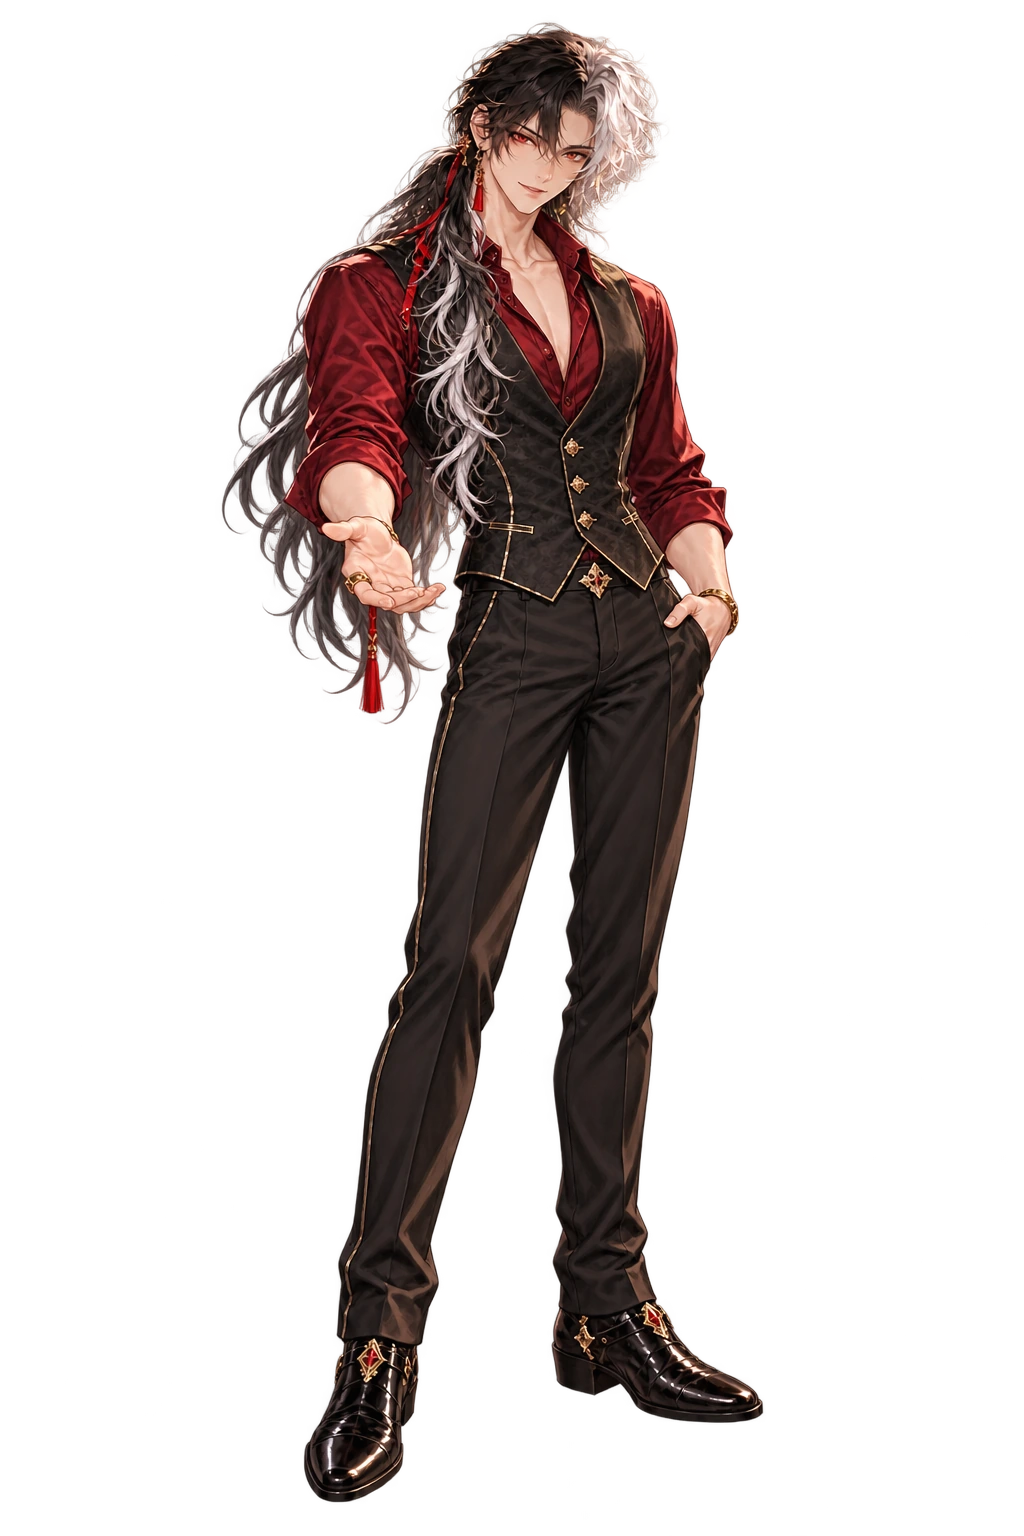
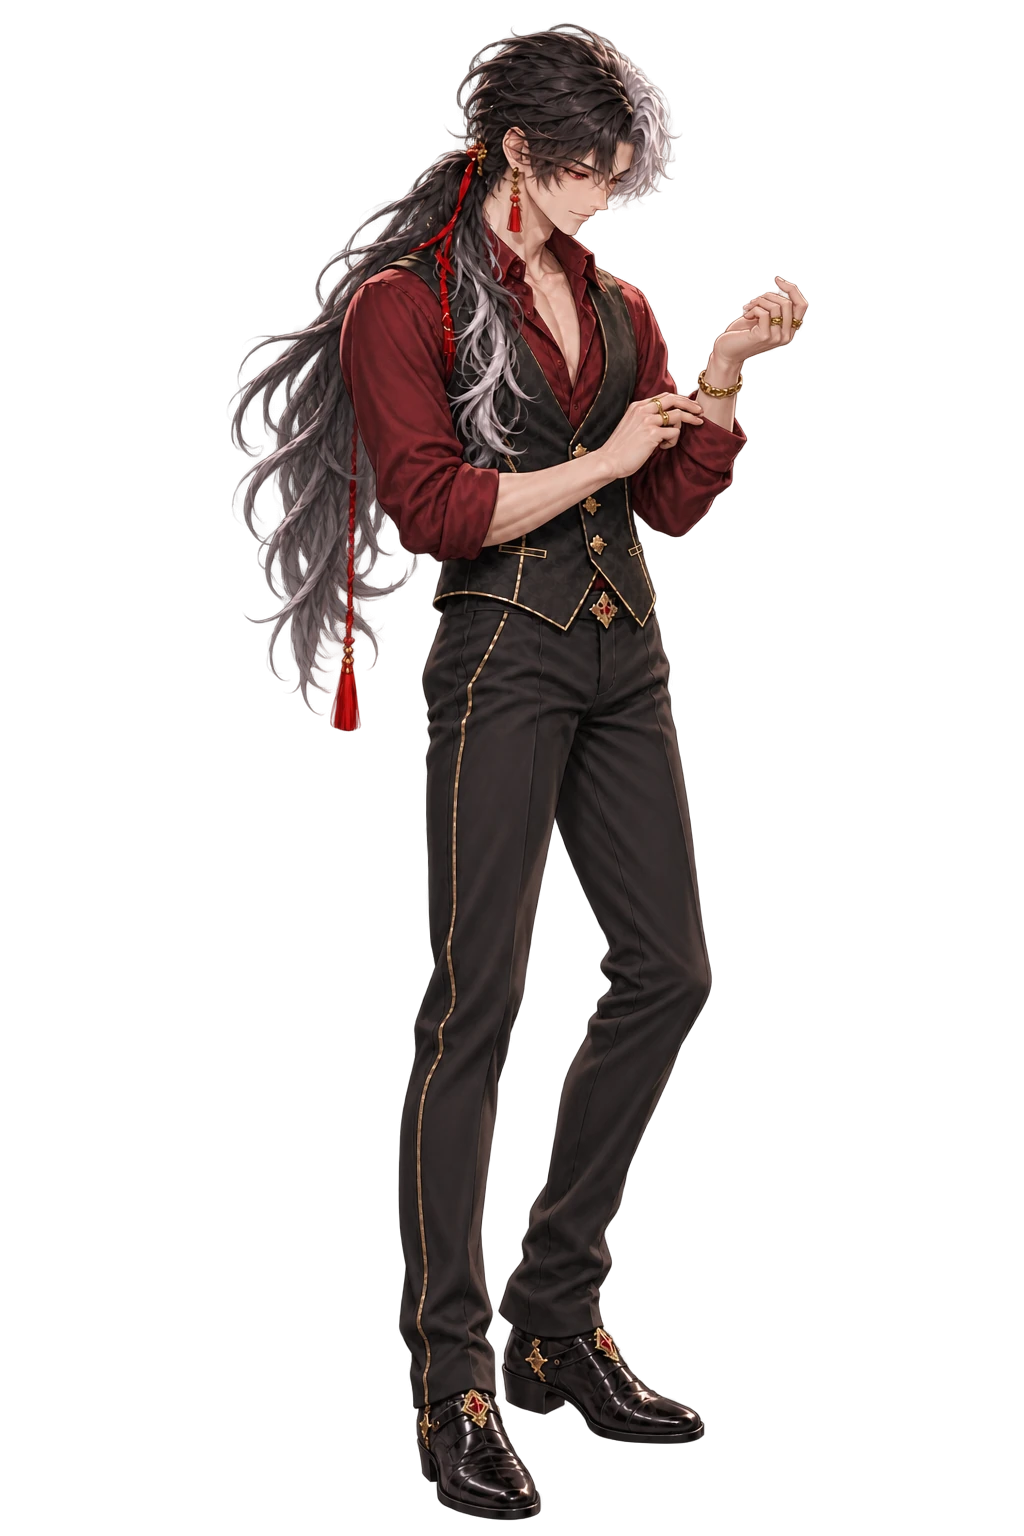
Update Yakyuken character assets and documentation with new poses and revisions

Changed region(s): [[0.2188, 0.0, 0.8125, 1.0]]

diff --git a/docs/yakyuken-preview.md b/docs/yakyuken-preview.md
@@ -46,7 +46,7 @@
 
 入場解鎖當前角色的初始 CG，每勝一次解鎖下一張，命運荷官共三張，優然共四張，夏澄共六張。收藏回顧不更改牌桌進度。歷史使用可捲動、可展開的單場清單。普通本機重載不續玩原場；測試雲端可由伺服器恢復未完成場次。
 
-牌桌使用 `images/yakyuken/{dealer,youran,xiache}/` 的 WebP。三位角色共十三張 1024×1536 透明 PNG 位於 `public/downloads/yakyuken/`，供玩家下載，不納入牌桌預載。荷官的下載 PNG 可由 `scripts/assets/export-yakyuken-cg.py` 重建，優然與夏澄的下載 PNG 即核定原圖。
+牌桌使用 `images/yakyuken/{dealer,youran,xiache}/` 的 WebP。荷官與優然的各階段採用同一個 1024×1536 畫布，上身對齊中央，鞋底共用同一基準；只平移圖像，不裁切或單獨縮放。三位角色共十三張 1024×1536 透明 PNG 位於 `public/downloads/yakyuken/`，供玩家下載，不納入牌桌預載。下載版保留核定原圖的構圖；荷官的 PNG 也可由 `scripts/assets/export-yakyuken-cg.py` 以相同像素重建。
 
 `cg-catalog.js` 統一圖片名稱、檔名與公開路徑。本機下載先核對解鎖；Discord 透過官方外部連結開啟 [CG 下載站](https://jokers-circus-gallery.pages.dev)，玩家可取消。該站是公開靜態圖片服務，沒有錢包或授權資料。
 

diff --git a/docs/discord-test-activity.md b/docs/discord-test-activity.md
@@ -2,6 +2,11 @@
 
 本入口專供兩款遊戲的 Discord 測試，不更新正式 App、正式 Worker、正式 Firestore 或既有 SQLite 測試帳本。產品版本 1.0.3，老虎機停輪與兩秒開轉冷卻沿用已驗收基準。
 
+## 三位野球拳角色立繪（2026-11-09）
+
+- Discord 測試 Worker `d46a4897-fe7e-4eba-8932-77ddf6c06d21` 已承接 100% 測試流量。荷官 3 張、優然 4 張採用核准的新稿，夏澄 6 張沿用現有素材。
+- 線上 13 張牌桌 WebP、13 張收藏 PNG 與本機建置逐檔相符；測試環境識別、入口 CSP 和未登入錢包 401 均通過。證據見 `test-results/portrait-v4-test-public-check.json` 與 `test-results/portrait-v4-test-after.json`。正式服未部署。
+
 ## 入場預抽與快速揭牌（2026-11-06）
 
 - 依使用者確認的方案，新場在確認選角入場時，以原每拳拒絕取樣器預抽至終局，和扣費原子提交；不另抽通關、不截斷平手。五角色各 200 個固定亂數序列均與原逐拳抽樣完全一致，原權重、通關率與獎金未變。
